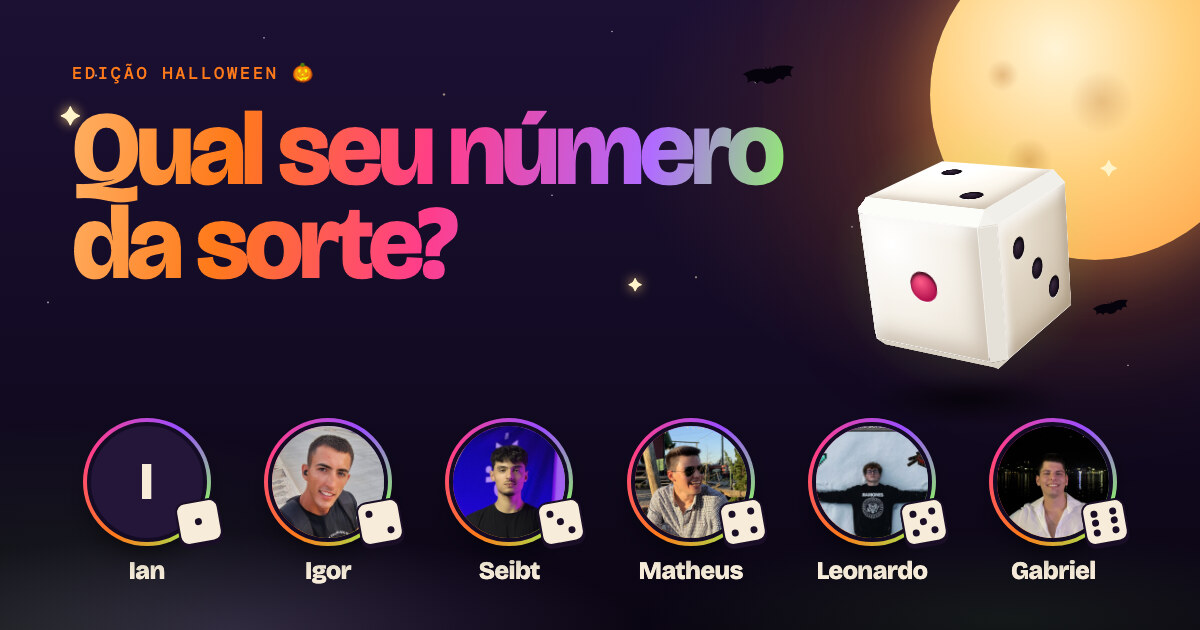
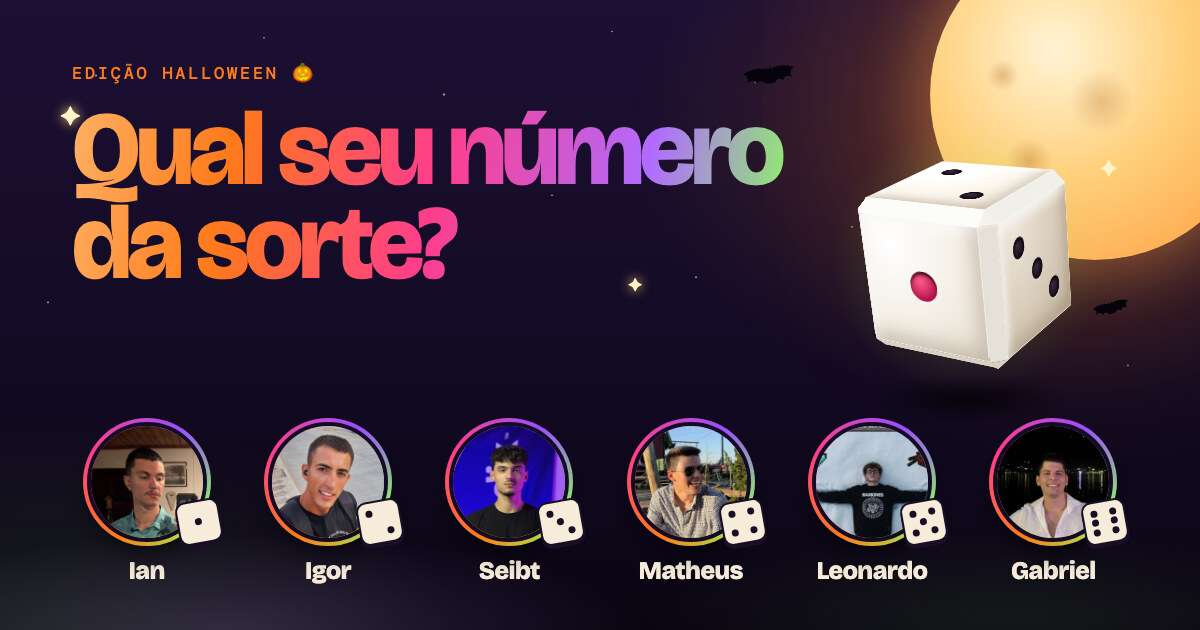
feat: ian

Changed region(s): [[0.0617, 0.6635, 0.185, 0.8746]]

diff --git a/public/index.html b/public/index.html
@@ -12,7 +12,7 @@
 <meta property="og:site_name" content="Qual seu número da sorte?">
 <meta property="og:title" content="Qual seu número da sorte? 🎲">
 <meta property="og:description" content="Seis amigos, seis faces do dado. Gire e descubra quem é o seu.">
-<meta property="og:image" content="https://qualseunumerodasorte.party/og.jpg?v=1">
+<meta property="og:image" content="https://qualseunumerodasorte.party/og.jpg?v=2">
 <meta property="og:image:type" content="image/jpeg">
 <meta property="og:image:width" content="1200">
 <meta property="og:image:height" content="630">
@@ -24,6 +24,7 @@
 <link rel="apple-touch-icon" href="apple-touch-icon.png">
 <!-- fotos dos cards: baixam já (antes do JS), e o Cloudflare manda como Early Hints.
      Mesmo caminho e mesmo ?v= que o script monta, senão baixa duas vezes. -->
+<link rel="preload" as="image" href="fotos/ian.jpg?v=2">
 <link rel="preload" as="image" href="fotos/igor.jpg?v=2">
 <link rel="preload" as="image" href="fotos/seibt.jpg?v=2">
 <link rel="preload" as="image" href="fotos/matheus.jpg?v=2">
